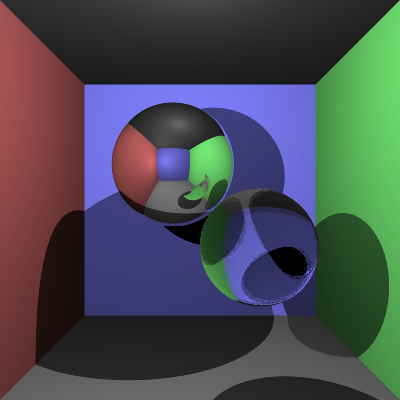
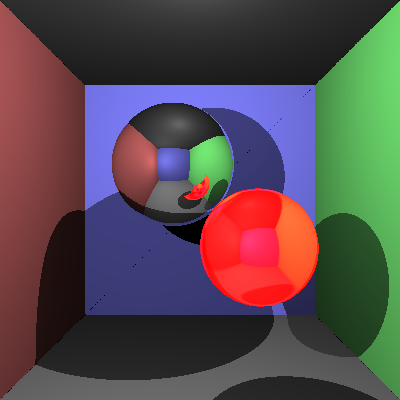
Implemented glossy reflection

diff --git a/src/scene/Scene.cs b/src/scene/Scene.cs
@@ -15,6 +15,8 @@ namespace RayTracer
         private ISet<SceneEntity> entities;
         private ISet<PointLight> lights;
 
+        private Random random = new Random();
+
         /// <summary>
         /// Construct a new scene with provided options.
         /// </summary>
@@ -77,7 +79,7 @@ namespace RayTracer
                                     hitEntity = entity;
                                 }
                             }
-                            pixelColors.Add(hitEntity != null && nearestHit != null ? PixelColor(hitEntity, nearestHit, GetVisibleLights(hitEntity, nearestHit), 10) : new Color(0, 0, 0));
+                            pixelColors.Add(hitEntity != null && nearestHit != null ? PixelColor(hitEntity, nearestHit, 10) : new Color(0, 0, 0));
                         }
                     }
                     Color colorSum = new Color(0, 0, 0);
@@ -88,6 +90,30 @@ namespace RayTracer
                     outputImage.SetPixel(x, y, colorSum / pixelColors.Count);
                 }
             }
+        }
+
+        private bool IsShadow(SceneEntity entity, RayHit hit)
+        {
+            foreach (PointLight light in this.lights)
+            {
+                Ray shadowRay = new Ray(light.Position, (hit.Position - light.Position).Normalized());
+                RayHit? nearestHit = null;
+                SceneEntity? hitEntity = null;
+                foreach (SceneEntity blockingEntity in this.entities)
+                {
+                    RayHit currentHit = blockingEntity.Intersect(shadowRay);
+                    if (currentHit != null && (currentHit.Position.LengthSq() < nearestHit?.Position.LengthSq() || nearestHit == null))
+                    {
+                        nearestHit = currentHit;
+                        hitEntity = blockingEntity;
+                    }
+                }
+                if (hitEntity == null || hitEntity == entity)
+                {
+                    return false;
+                }
+            }
+            return true;
         }
 
         private HashSet<PointLight> GetVisibleLights(SceneEntity entity, RayHit hit)
@@ -115,9 +141,13 @@ namespace RayTracer
             return visibleLights;
         }
 
-        private Color PixelColor(SceneEntity entity, RayHit hit, HashSet<PointLight> visibleLights, int depth)
+        private Color PixelColor(SceneEntity entity, RayHit hit, int depth)
         {
-            if (visibleLights.Count == 0 || depth == 0)
+            if (depth == 0)
+            {
+                return entity.Material.Color;
+            }
+            if (IsShadow(entity, hit))
             {
                 return new Color(0, 0, 0);
             }
@@ -126,7 +156,7 @@ namespace RayTracer
                 case Material.MaterialType.Diffuse:
                     Color color = new Color(0, 0, 0);
                     Color subcolor;
-                    foreach (PointLight light in visibleLights)
+                    foreach (PointLight light in GetVisibleLights(entity, hit))
                     {
                         subcolor = hit.Material.Color * light.Color * hit.Normal.Dot((light.Position - hit.Position).Normalized());
                         if (subcolor.R >= 0 && subcolor.G >= 0 && subcolor.B >= 0)
@@ -136,17 +166,49 @@ namespace RayTracer
                     }
                     return color;
                 case Material.MaterialType.Reflective:
-                    return ReflectedColor(entity, hit, visibleLights, depth - 1);
+                    return ReflectedColor(entity, hit, depth - 1);
                 case Material.MaterialType.Refractive:
                     //double fresnelProportion = FresnelProportion(entity.Material.RefractiveIndex, hit.Incident, hit.Normal.Normalized());
                     //return RefractedColor(entity, hit, visibleLights, depth - 1) * fresnelProportion + ReflectedColor(entity, hit, visibleLights, depth - 1) * (1 - fresnelProportion);
-                    return RefractedColor(entity, hit, visibleLights, depth - 1);
+                    return RefractedColor(entity, hit, depth - 1);
+                case Material.MaterialType.Glossy:
+                    double REFLECTIVITY = 0.5;
+                    Color colorSum = new Color(0, 0, 0);
+                    Vector3 normalisedNormal = hit.Normal.Normalized();
+                    Ray reflectedRay = new Ray(hit.Position, hit.Incident - 2 * hit.Incident.Dot(normalisedNormal) * normalisedNormal);
+                    for (int i = 0; i < 80; i++)
+                    {
+                        double theta = Math.Acos(Math.Pow(random.NextDouble(), REFLECTIVITY));
+                        double phi = 2 * Math.PI * random.NextDouble();
+                        double x = Math.Sin(phi) * Math.Cos(theta) / 16;
+                        double y = Math.Sin(phi) * Math.Sin(theta) / 16;
+                        Vector3 u = reflectedRay.Direction.Cross(normalisedNormal);
+                        Vector3 v = reflectedRay.Direction.Cross(u);
+                        Ray ray = new Ray(reflectedRay.Origin, (x * u + y * v + reflectedRay.Direction).Normalized());
+                        RayHit? nearestHit = null;
+                        SceneEntity? hitEntity = null;
+                        foreach (SceneEntity targetEntity in this.entities)
+                        {
+                            if (targetEntity != entity)
+                            {
+                                RayHit currentHit = targetEntity.Intersect(ray);
+                                if (currentHit != null && (currentHit.Position.LengthSq() < nearestHit?.Position.LengthSq() || nearestHit == null))
+                                {
+                                    nearestHit = currentHit;
+                                    hitEntity = targetEntity;
+                                }
+                            }
+                        }
+
+                        colorSum += (hitEntity != null && nearestHit != null ? PixelColor(hitEntity, nearestHit, depth - 1) : new Color(0, 0, 0)) * REFLECTIVITY;
+                    }
+                    return entity.Material.Color + colorSum / 80;
                 default:
                     return entity.Material.Color;
             }
         }
 
-        private Color ReflectedColor(SceneEntity entity, RayHit currentHit, HashSet<PointLight> visibleLights, int depth)
+        private Color ReflectedColor(SceneEntity entity, RayHit currentHit, int depth)
         {
             Vector3 normalisedNormal = currentHit.Normal.Normalized();
             Ray reflectedRay = new Ray(currentHit.Position, currentHit.Incident - 2 * currentHit.Incident.Dot(normalisedNormal) * normalisedNormal);
@@ -164,10 +226,10 @@ namespace RayTracer
                     }
                 }
             }
-            return hitEntity != null && nearestHit != null ? PixelColor(hitEntity, nearestHit, GetVisibleLights(hitEntity, nearestHit), depth - 1) : new Color(0, 0, 0);
+            return hitEntity != null && nearestHit != null ? PixelColor(hitEntity, nearestHit, depth - 1) : new Color(0, 0, 0);
         }
 
-        private Color RefractedColor(SceneEntity entity, RayHit currentHit, HashSet<PointLight> visibleLights, int depth)
+        private Color RefractedColor(SceneEntity entity, RayHit currentHit, int depth)
         {
             double refractiveIndexRatio = 1 / entity.Material.RefractiveIndex;
             double cosI = Math.Abs(currentHit.Normal.Dot(currentHit.Incident));
@@ -188,7 +250,7 @@ namespace RayTracer
                     hitEntity = targetEntity;
                 }
             }
-            return hitEntity != null && nearestHit != null ? PixelColor(hitEntity, nearestHit, GetVisibleLights(hitEntity, nearestHit), depth - 1) : new Color(0, 0, 0);
+            return hitEntity != null && nearestHit != null ? PixelColor(hitEntity, nearestHit, depth - 1) : new Color(0, 0, 0);
         }
 
         private double FresnelProportion(double refractiveIndex, Vector3 incidentVector, Vector3 normalVector)
